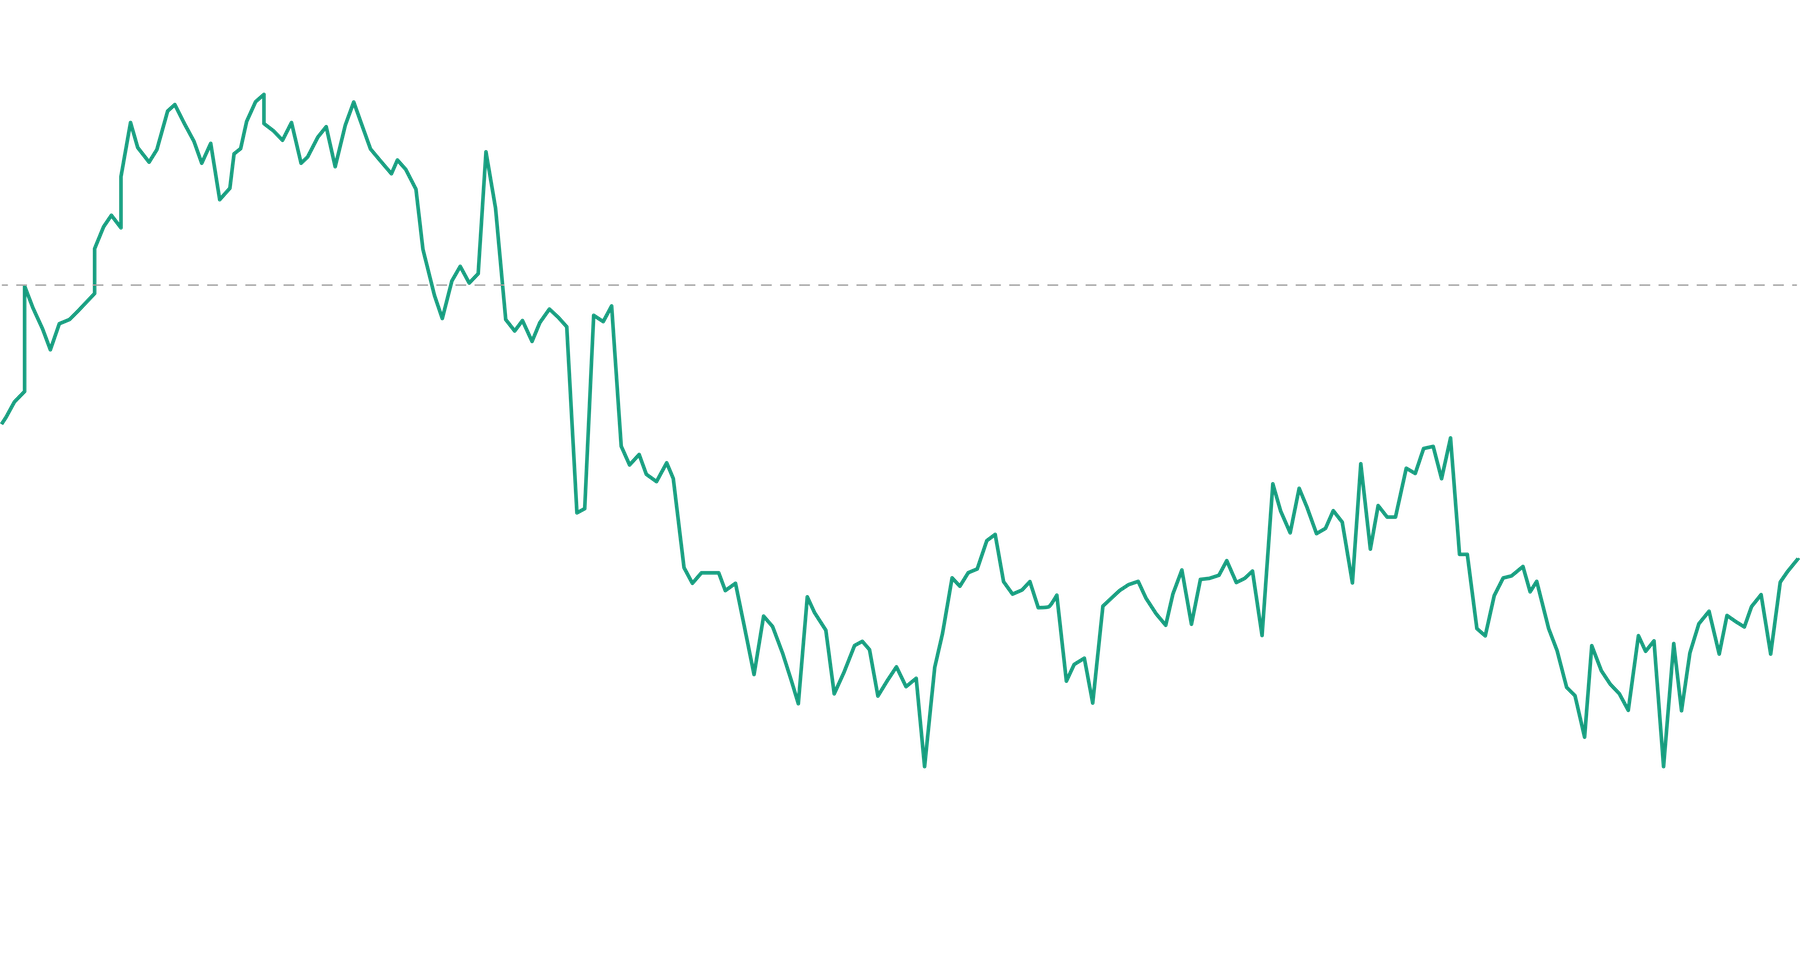
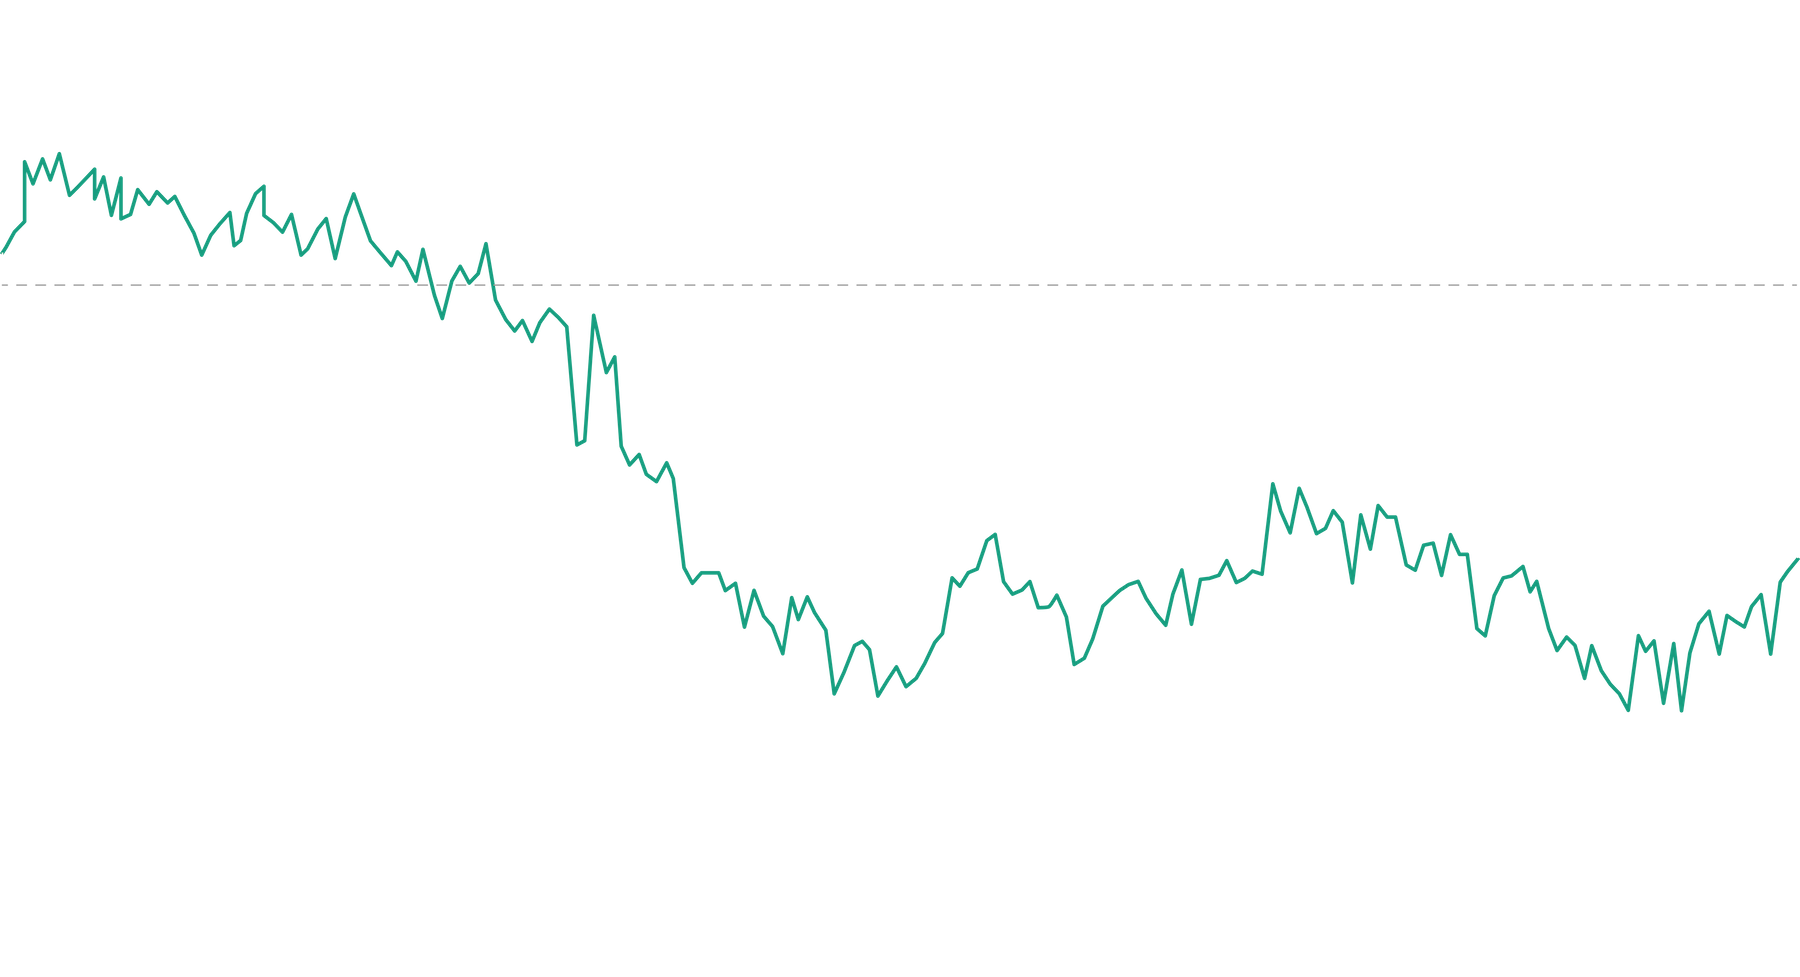
image adjustments

diff --git a/frontend/components/home_page/chart.jsx b/frontend/components/home_page/chart.jsx
@@ -1,6 +1,7 @@
 import React from 'react';
 import { AuthRoute, ProtectedRoute } from '../../util/route_util';
 import { Link, withRouter } from 'react-router-dom';
+import { stringifyToFloat } from '../../util/parsing_functions';
 
 import ChartOverlay from './chart_overlay';
 
@@ -8,20 +9,13 @@ class Chart extends React.Component {
   constructor(props) {
     super(props);
     this.state = {
-      imgUrl: "https://github.com/avelasco920/stocks-overflow/blob/master/app/assets/images/chart%20thumbnail/green3.png?raw=true",
+      imgUrl: "https://github.com/avelasco920/stocks-overflow/blob/master/app/assets/images/chart%20thumbnail/green2.png?raw=true",
     };
   }
 
   changeImage(num) {
-    const imgs = {
-      1: "https://github.com/avelasco920/stocks-overflow/blob/master/app/assets/images/chart%20thumbnail/green2.png?raw=true",
-      2: "https://github.com/avelasco920/stocks-overflow/blob/master/app/assets/images/chart%20thumbnail/green3.png?raw=true",
-      4: "https://github.com/avelasco920/stocks-overflow/blob/master/app/assets/images/chart%20thumbnail/green4.png?raw=true",
-      5: "https://github.com/avelasco920/stocks-overflow/blob/master/app/assets/images/chart%20thumbnail/green5.png?raw=true",
-      6: "https://github.com/avelasco920/stocks-overflow/blob/master/app/assets/images/chart%20thumbnail/green6.png?raw=true",
-      7: "https://github.com/avelasco920/stocks-overflow/blob/master/app/assets/images/chart%20thumbnail/green7.png?raw=true",
-    };
-    this.setState({imgUrl: imgs[num]});
+    const url = `https://github.com/avelasco920/stocks-overflow/blob/master/app/assets/images/chart%20thumbnail/green${num}.png?raw=true`;
+    this.setState({imgUrl: url});
   }
 
   render() {
@@ -29,7 +23,22 @@ class Chart extends React.Component {
     const { imgUrl } = this.state;
     return (
       <div className="chart">
-        <ChartOverlay user={user}/>
+        <div className="chart-overlay">
+          <div className="account-info">
+            <h2>${stringifyToFloat(user.portfolio_value)}</h2>
+            <div className="delta">
+              <h4>+$7.01(+0.70%)</h4> <span>Today</span>
+            </div>
+          </div>
+          <div className="chart-history">
+            <a onClick={() => this.changeImage(1)}>Today</a>
+            <a onClick={() => this.changeImage(2)}>1W</a>
+            <a onClick={() => this.changeImage(3)}>1M</a>
+            <a onClick={() => this.changeImage(4)}>3M</a>
+            <a onClick={() => this.changeImage(5)}>1Y</a>
+            <a onClick={() => this.changeImage(6)}>5Y</a>
+          </div>
+        </div>
         <img
           src={imgUrl}
           className="chart-placeholder"/>
